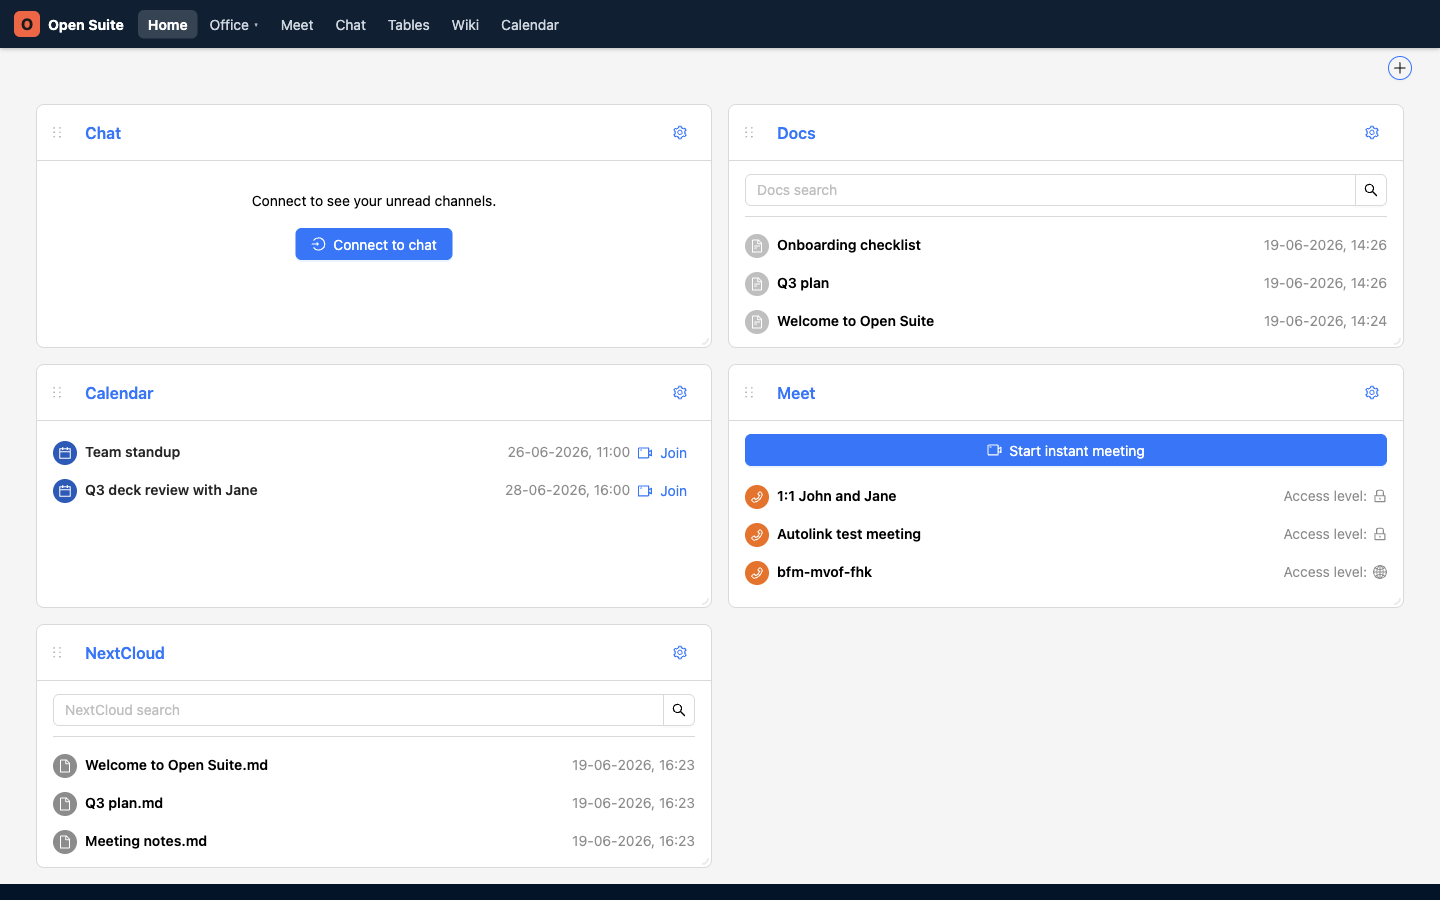
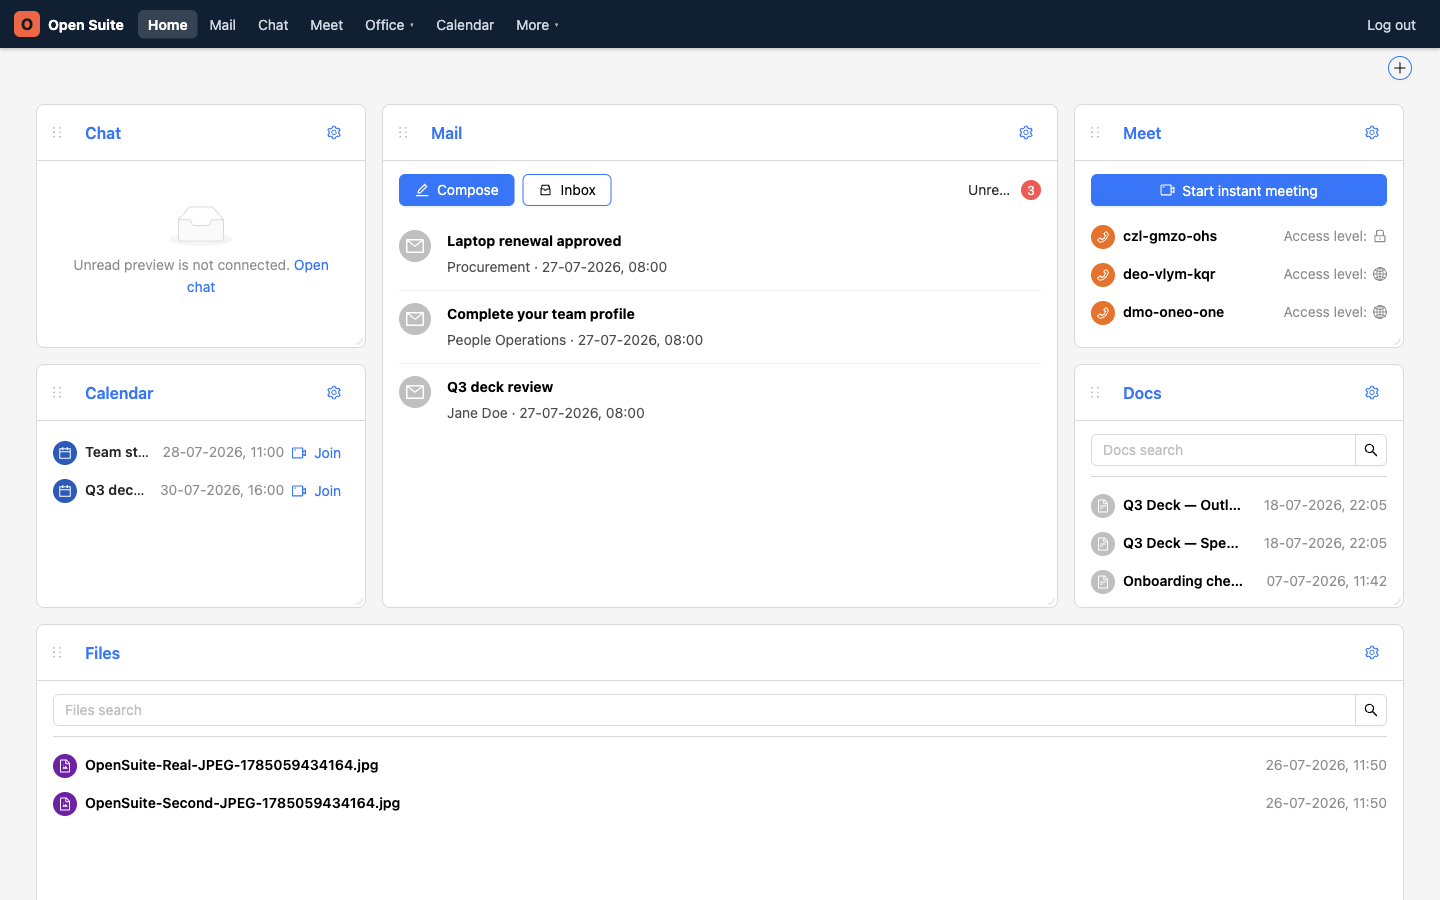
Refresh top user guides and annotation workflow
Amp-Thread-ID: https://ampcode.com/threads/T-019f775a-2eb5-71f8-8061-21a600ed65e2

diff --git a/src/css/custom.css b/src/css/custom.css
@@ -126,6 +126,13 @@ body {
   width: 1.75rem;
 }
 
+.shot-marker--compact {
+  border-width: 1.5px;
+  font-size: 0.68rem;
+  height: 1.3rem;
+  width: 1.3rem;
+}
+
 .shot-callouts {
   display: grid;
   gap: 0.65rem;

diff --git a/users/navigate-open-suite.md b/users/navigate-open-suite.md
@@ -10,18 +10,49 @@ navigation is the fastest way to move between tools.
 
 The home page collects your current work in one place:
 
+- **Mail** shows unread messages and opens your inbox.
 - **Docs** shows recent documents.
 - **Calendar** shows upcoming meetings with join links.
 - **Meet** shows meeting rooms and lets you start a call.
-- **NextCloud** shows recent files.
+- **Files** shows recent files.
 
-![Open Suite dashboard with key actions marked](/img/users/portal-dashboard-annotated.png)
+<p className="shot-scroll-hint">Swipe or scroll the screenshot to see every detail.</p>
+<div className="annotated-shot-scroll">
+  <div className="annotated-shot">
+    <img src="/img/users/portal-dashboard.png" alt="Open Suite dashboard and top navigation" />
+    <span aria-hidden="true" className="shot-marker shot-marker--compact" style={{left: '15%', top: '7%'}}>1</span>
+    <span aria-hidden="true" className="shot-marker shot-marker--compact" style={{left: '27%', top: '7%'}}>2</span>
+    <span aria-hidden="true" className="shot-marker shot-marker--compact" style={{left: '33%', top: '7%'}}>3</span>
+    <span aria-hidden="true" className="shot-marker shot-marker--compact" style={{left: '37%', top: '7%'}}>4</span>
+  </div>
+</div>
+
+<div className="shot-callouts">
+  <div><span>1</span><p><strong>Mail</strong> opens your mailbox directly.</p></div>
+  <div><span>2</span><p><strong>Office</strong> contains Documents, Spreadsheets, Presentations, Diagrams, and Files.</p></div>
+  <div><span>3</span><p><strong>Calendar</strong> opens your full schedule.</p></div>
+  <div><span>4</span><p><strong>More</strong> contains Tables, Wiki, and Contacts.</p></div>
+</div>
 
 ## Open Office apps
 
 Click **Office** in the top navigation, then choose the app you need.
 
-![Office menu with document and file apps marked](/img/users/portal-office-menu-annotated.png)
+<p className="shot-scroll-hint">Swipe or scroll the screenshot to see every detail.</p>
+<div className="annotated-shot-scroll">
+  <div className="annotated-shot">
+    <img src="/img/users/portal-office-menu.png" alt="Office menu open from the Open Suite navigation" />
+    <span aria-hidden="true" className="shot-marker shot-marker--compact" style={{left: '23%', top: '2.5%'}}>1</span>
+    <span aria-hidden="true" className="shot-marker shot-marker--compact" style={{left: '28%', top: '6%'}}>2</span>
+    <span aria-hidden="true" className="shot-marker shot-marker--compact" style={{left: '34%', top: '22.5%'}}>3</span>
+  </div>
+</div>
+
+<div className="shot-callouts">
+  <div><span>1</span><p><strong>Office</strong> opens and closes the app menu.</p></div>
+  <div><span>2</span><p><strong>Documents</strong> opens the document workspace.</p></div>
+  <div><span>3</span><p><strong>Files</strong> opens folders, uploads, sharing, and downloads.</p></div>
+</div>
 
 Use these entries most often:
 
@@ -29,8 +60,6 @@ Use these entries most often:
 - **Spreadsheets** for tables and calculations.
 - **Presentations** for slide decks.
 - **Files** for folders, uploads, sharing, and downloads.
-- **Contacts** for people and address books.
-- **Projects** for project work.
 
 ## Pick the right tool
 
@@ -43,9 +72,8 @@ Use this quick map when you know the job but not the app:
 | Upload, share, or download files | **Office → Files** |
 | Schedule a meeting | **Calendar** |
 | Start or join a video call | **Meet** |
-| Find a colleague's details | **Office → Contacts** |
-| Track work items | **Office → Projects** |
-| Work with structured records | **Tables** |
+| Find a colleague's details | **More → Contacts** |
+| Work with structured records | **More → Tables** |
 | Message a team | **Chat** |
 
 ## Open the other tools
@@ -55,9 +83,10 @@ The remaining top-level links open the other parts of the workspace:
 - **Mail** opens your email inbox.
 - **Meet** opens video meetings.
 - **Chat** opens team chat.
-- **Tables** opens structured data tables.
-- **Wiki** opens shared knowledge pages.
 - **Calendar** opens your schedule.
+- **More → Tables** opens structured data tables.
+- **More → Wiki** opens shared knowledge pages.
+- **More → Contacts** opens people and address books.
 
 If a connected app asks you to sign in again, return to the portal and open the
 app from the navigation. That refreshes the single sign-on session.

diff --git a/PROJECT.md b/PROJECT.md
@@ -14,8 +14,50 @@ Rules of thumb:
 - Admin docs target the Keycloak admin console + Nextcloud admin settings.
 - IT docs are command-driven (code blocks); screenshots are usually unnecessary.
 
-Screenshots: viewport 1440×900 at 2× device scale for crisp images; captured
-images belong in `static/img/<section>/`.
+## Screenshot and annotation workflow
+
+Use real screens from the live demo, never reconstructed or AI-generated UI.
+Capture at a 1440×900 viewport after the page has finished loading. Use a 2×
+device scale when the browser runner supports it, bring the page to the front
+before interacting, and save the untouched PNG in `static/img/<section>/`.
+Before committing, check that the image contains only demo data and no tokens,
+passwords, personal accounts, browser chrome, or loading indicators.
+
+New annotations are HTML/CSS overlays, not pixels baked into a second image.
+This keeps the screenshot reusable, the callout text accessible, and marker
+positions easy to correct when a screen changes. The shared implementation is
+in `src/css/custom.css` (`annotated-shot`, `shot-marker`, and
+`shot-callouts`). Copy this MDX pattern:
+
+```mdx
+<p className="shot-scroll-hint">Swipe or scroll the screenshot to see every detail.</p>
+<div className="annotated-shot-scroll">
+  <div className="annotated-shot">
+    <img src="/img/users/example.png" alt="Describe the screen, not the annotations" />
+    <span aria-hidden="true" className="shot-marker" style={{left: '24%', top: '18%'}}>1</span>
+    <span aria-hidden="true" className="shot-marker" style={{left: '67%', top: '42%'}}>2</span>
+  </div>
+</div>
+
+<div className="shot-callouts">
+  <div><span>1</span><p><strong>Action name</strong> explains what happens here.</p></div>
+  <div><span>2</span><p><strong>Second action</strong> explains the next useful control.</p></div>
+</div>
+```
+
+Marker coordinates are percentages of the screenshot: `left = x / width ×
+100` and `top = y / height × 100`. Put markers beside a control rather than on
+top of its label. Keep the sequence in task order, use no more markers than the
+reader needs, and repeat every number in the callout cards below. Do not add
+arrows or text boxes over the interface. The older `*-annotated.png` files are
+legacy; use the overlay pattern when refreshing those pages. For several
+controls packed into one menu or navigation bar, add `shot-marker--compact`
+instead of allowing full-size markers to overlap.
+
+After changing screenshots or markers, run `npm run build` and inspect the
+page at desktop and mobile widths. Mobile deliberately keeps the screenshot at
+a readable minimum width and provides horizontal scrolling; the callout cards
+must remain readable without relying on the image alone.
 
 Build/preview: `npm start`. Verify before publishing: `npm run build`
 (fails on broken links). See `README.md` for how the site is deployed.

diff --git a/users/intro.md b/users/intro.md
@@ -8,11 +8,27 @@ Open Suite is a browser workspace for email, documents, files, calendars,
 meetings, and team tools. These guides are written for people using Open Suite
 day to day.
 
-Start from the portal at `https://bridge.demo.opensuite.online/`. After sign-in,
+Start from the [portal](https://bridge.demo.opensuite.online/). After sign-in,
 the home page shows your recent documents, upcoming calendar events, meeting
-rooms, and file shortcuts.
+rooms, mail, and file shortcuts.
 
-![Open Suite dashboard with key actions marked](/img/users/portal-dashboard-annotated.png)
+<p className="shot-scroll-hint">Swipe or scroll the screenshot to see every detail.</p>
+<div className="annotated-shot-scroll">
+  <div className="annotated-shot">
+    <img src="/img/users/portal-dashboard.png" alt="Open Suite home dashboard" />
+    <span aria-hidden="true" className="shot-marker" style={{left: '39%', top: '20%'}}>1</span>
+    <span aria-hidden="true" className="shot-marker" style={{left: '3.5%', top: '37%'}}>2</span>
+    <span aria-hidden="true" className="shot-marker" style={{left: '76%', top: '20%'}}>3</span>
+    <span aria-hidden="true" className="shot-marker" style={{left: '39%', top: '68%'}}>4</span>
+  </div>
+</div>
+
+<div className="shot-callouts">
+  <div><span>1</span><p><strong>Mail</strong> previews unread messages and opens your inbox.</p></div>
+  <div><span>2</span><p><strong>Calendar</strong> shows upcoming events and their join links.</p></div>
+  <div><span>3</span><p><strong>Meet</strong> starts an instant call or reopens a room.</p></div>
+  <div><span>4</span><p><strong>Files</strong> keeps recent work close to the dashboard.</p></div>
+</div>
 
 ## What you can do
 
@@ -39,6 +55,6 @@ Use the dashboard first when you are not sure where to go:
 1. Check **Calendar** for upcoming meetings and click **Join** when a meeting is
    ready.
 2. Use **Meet → Start instant meeting** for an unscheduled call.
-3. Use **Docs** or **NextCloud** to reopen recent documents and files.
-4. Use the top navigation to open Mail, Office apps, Meet, Chat, Tables, Wiki,
-   and Calendar.
+3. Use **Docs** or **Files** to reopen recent documents and files.
+4. Use the top navigation to open Mail, Chat, Meet, Office apps, Calendar, or
+   the tools under **More**.

diff --git a/users/use-mail.md b/users/use-mail.md
@@ -14,9 +14,9 @@ Click **Mail** in the Open Suite navigation. Mail opens your inbox.
 <div className="annotated-shot-scroll">
   <div className="annotated-shot">
     <img src="/img/users/mail-inbox.png" alt="Open Suite Mail inbox" />
-    <span className="shot-marker" style={{left: '12%', top: '8%'}}>1</span>
-    <span className="shot-marker" style={{left: '2%', top: '20%'}}>2</span>
-    <span className="shot-marker" style={{left: '19%', top: '16%'}}>3</span>
+    <span aria-hidden="true" className="shot-marker" style={{left: '12%', top: '8%'}}>1</span>
+    <span aria-hidden="true" className="shot-marker" style={{left: '2%', top: '20%'}}>2</span>
+    <span aria-hidden="true" className="shot-marker" style={{left: '19%', top: '16%'}}>3</span>
   </div>
 </div>
 
@@ -40,11 +40,11 @@ Click **Mail** in the Open Suite navigation. Mail opens your inbox.
 <div className="annotated-shot-scroll">
   <div className="annotated-shot">
     <img src="/img/users/mail-compose.png" alt="A new email ready to send in Open Suite Mail" />
-    <span className="shot-marker" style={{left: '32%', top: '22%'}}>1</span>
-    <span className="shot-marker" style={{left: '32%', top: '35%'}}>2</span>
-    <span className="shot-marker" style={{left: '32%', top: '47%'}}>3</span>
-    <span className="shot-marker" style={{left: '32%', top: '82%'}}>4</span>
-    <span className="shot-marker" style={{left: '30.5%', top: '96%'}}>5</span>
+    <span aria-hidden="true" className="shot-marker" style={{left: '32%', top: '22%'}}>1</span>
+    <span aria-hidden="true" className="shot-marker" style={{left: '32%', top: '35%'}}>2</span>
+    <span aria-hidden="true" className="shot-marker" style={{left: '32%', top: '47%'}}>3</span>
+    <span aria-hidden="true" className="shot-marker" style={{left: '32%', top: '82%'}}>4</span>
+    <span aria-hidden="true" className="shot-marker" style={{left: '30.5%', top: '96%'}}>5</span>
   </div>
 </div>
 
